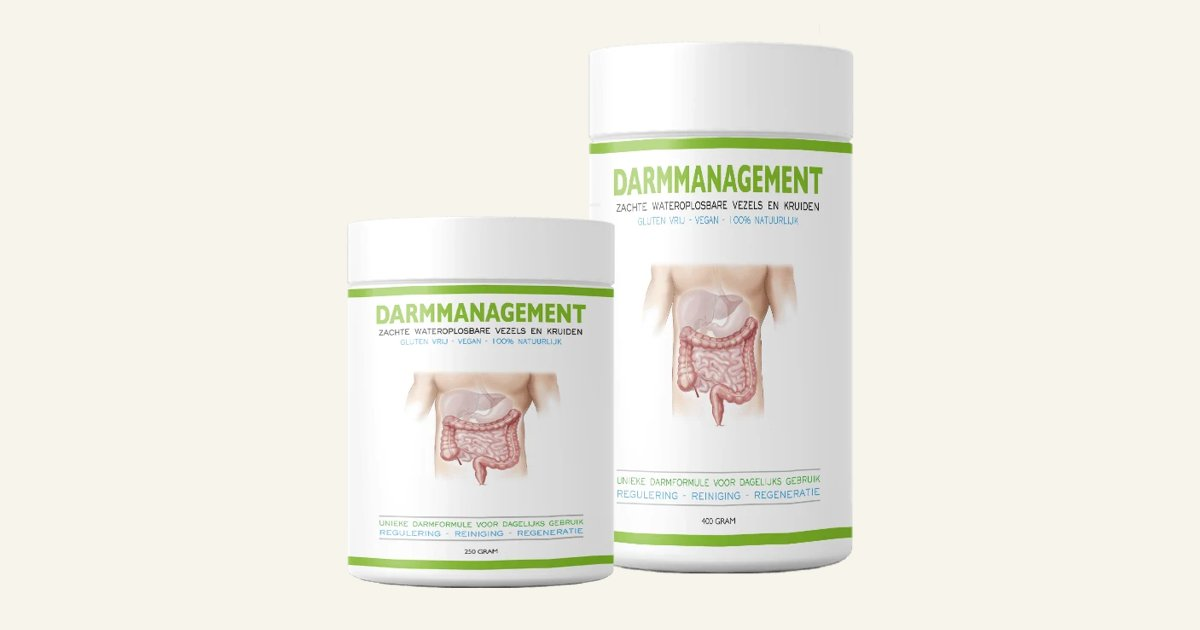
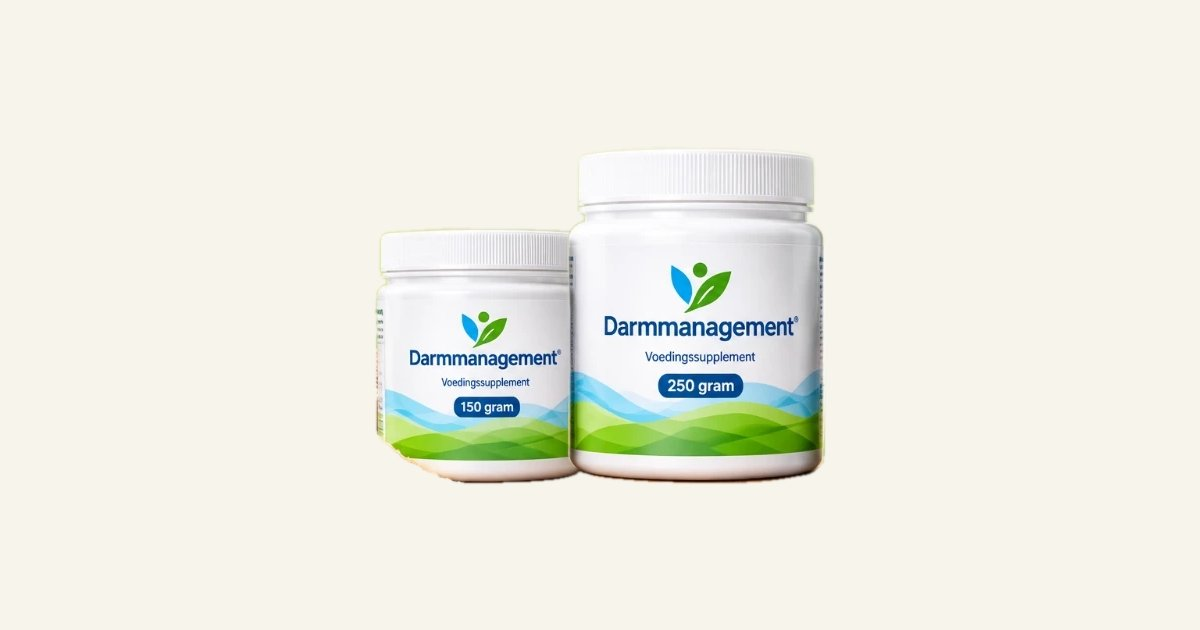
Winkelpagina als concept (/winkel-concept, achter beheerwachtwoord) en potmaten 150 g en 250 g
- 6 producten: Original en PRO in pot 150 g, pot 250 g en sachets (7 of 21)
- productfoto's uitgesneden uit de aangeleverde foto; achterkant als etiket (omdraaien)
- Bestel nu naar de webshop van Powerdetox; filter Original/PRO/sachets; probeerverpakking
- conceptpagina: noindex, niet in menu of sitemap, alleen met beheerwachtwoord
- potmaten overal bijgewerkt (kennisbank, vragen, product, vezelcheck, afbeeldingen)

Claude-Session: https://claude.ai/code/session_01AEFBKzjQL3TdtPbYMpoS3T

Changed region(s): [[0.2775, 0.0603, 0.7092, 0.9349]]

diff --git a/worker/index.ts b/worker/index.ts
@@ -14,7 +14,7 @@ import product from '../src/knowledge/product.md';
 import aandoeningen from '../src/knowledge/aandoeningen.md';
 import kennisbank from '../src/knowledge/kennisbank.md';
 import { checkAlarm, filterOutput, ALARM_REPLIES } from '../src/lib/safety';
-import { handleErvaring, handleErvaringenLijst, handleBeheer, type ErvaringEnv } from './ervaringen';
+import { handleErvaring, handleErvaringenLijst, handleBeheer, authorized, type ErvaringEnv } from './ervaringen';
 
 interface RateLimiter {
   limit(opts: { key: string }): Promise<{ success: boolean }>;
@@ -75,6 +75,20 @@ export default {
     if (url.pathname === '/api/ervaring') return handleErvaring(request, env, url);
     if (url.pathname === '/api/ervaringen') return handleErvaringenLijst(request, env);
     if (url.pathname === '/beheer' || url.pathname.startsWith('/beheer/')) return handleBeheer(request, env, url);
+    // Conceptpagina's: alleen zichtbaar met het beheerwachtwoord, nooit in Google.
+    if (url.pathname === '/winkel-concept' || url.pathname.startsWith('/winkel-concept/')) {
+      if (!authorized(request, env)) {
+        return new Response('Inloggen vereist', {
+          status: 401,
+          headers: { 'www-authenticate': 'Basic realm="Darmmanagement beheer", charset="UTF-8"', 'cache-control': 'no-store' },
+        });
+      }
+      const res = await env.ASSETS.fetch(request);
+      const out = new Response(res.body, res);
+      out.headers.set('x-robots-tag', 'noindex, nofollow');
+      out.headers.set('cache-control', 'private, no-store');
+      return out;
+    }
     if (url.pathname.startsWith('/api/')) return json({ error: 'not_found' }, 404);
     return env.ASSETS.fetch(request);
   },

diff --git a/worker/ervaringen.ts b/worker/ervaringen.ts
@@ -113,7 +113,7 @@ function timingSafeEqual(a: string, b: string): boolean {
   return diff === 0;
 }
 
-function authorized(request: Request, env: ErvaringEnv): boolean {
+export function authorized(request: Request, env: ErvaringEnv): boolean {
   if (!env.ADMIN_PASSWORD) return false;
   const h = request.headers.get('authorization') ?? '';
   if (!h.startsWith('Basic ')) return false;

diff --git a/src/knowledge/product.md b/src/knowledge/product.md
@@ -1,15 +1,16 @@
 # Productinformatie Darmmanagement PRO
 
-Bron: winkeletiket Darmmanagement PRO (400 g) en de receptuur van november 2026. Dit is de enige productinformatie die de begeleider mag gebruiken.
+Bron: winkeletiket Darmmanagement PRO en de receptuur van november 2026. Dit is de enige productinformatie die de begeleider mag gebruiken.
 
 ## Wat het is
-Een voedingssupplement in poedervorm voor dagelijks gebruik. Pot van 400 gram, goed voor 80 porties van 5 gram. Met maatschepje van 5 gram.
+Een voedingssupplement in poedervorm voor dagelijks gebruik. Verkrijgbaar in potten van 150 gram (30 porties) en 250 gram (50 porties) van 5 gram, met maatschepje van 5 gram, en in sachets van 5 gram.
 Darmmanagement (zonder PRO) bevat dezelfde vezel en kruiden, maar geen levende bacteriën.
 
 ## Verpakkingen en hoe lang je ermee doet
 Darmmanagement en Darmmanagement PRO zijn allebei verkrijgbaar in beide potmaten:
-- Pot van 250 gram: 50 porties van 5 gram. Genoeg voor 50 dagen bij 1 portie per dag.
-- Pot van 400 gram: 80 porties van 5 gram. Genoeg voor 40 dagen bij 2 porties per dag (of 80 dagen bij 1 portie per dag).
+- Pot van 150 gram: 30 porties van 5 gram. Genoeg voor 30 dagen bij 1 portie per dag, of 15 dagen bij 2 porties per dag.
+- Pot van 250 gram: 50 porties van 5 gram. Genoeg voor 50 dagen bij 1 portie per dag, of 25 dagen bij 2 porties per dag.
+- Een pot van 400 gram bestaat niet (meer).
 - Sachets: van beide producten, 5 gram per sachet (1 portie). Te bestellen per 7 of per 21 stuks. Tip: sachets zijn handig in gebruik en makkelijk mee te nemen, bijvoorbeeld naar je werk of op vakantie. Noem deze tip gerust als iemand vraagt naar gebruik onderweg, op reis of buiten de deur.
 - Gratis probeerverpakking: 50 gram, 10 porties.
 - Prijzen staan niet in deze informatie; verwijs daarvoor naar darmmanagement.nl.

diff --git a/src/knowledge/kennisbank.md b/src/knowledge/kennisbank.md
@@ -197,7 +197,7 @@ De letter W met een nummer is de code van de specifieke stam. Sinds 2020 hebben 
 | Psylliumvezel en negen kruiden | ja | ja |
 | Acht stammen levende bacteriën (2,5 miljard per portie) | nee | ja |
 | Vezels per portie van 5 g | staat op het etiket van Darmmanagement; noem geen getal als je het niet weet | 3,6 g |
-| Potten | 250 g (50 porties) en 400 g (80 porties) | 250 g (50 porties) en 400 g (80 porties) |
+| Potten | 150 g (30 porties) en 250 g (50 porties) | 150 g (30 porties) en 250 g (50 porties) |
 | Sachets van 5 g | per 7 of 21 stuks | per 7 of 21 stuks |
 | Gratis probeerverpakking | | 50 g (10 porties), via powerdetox.nl |
 
